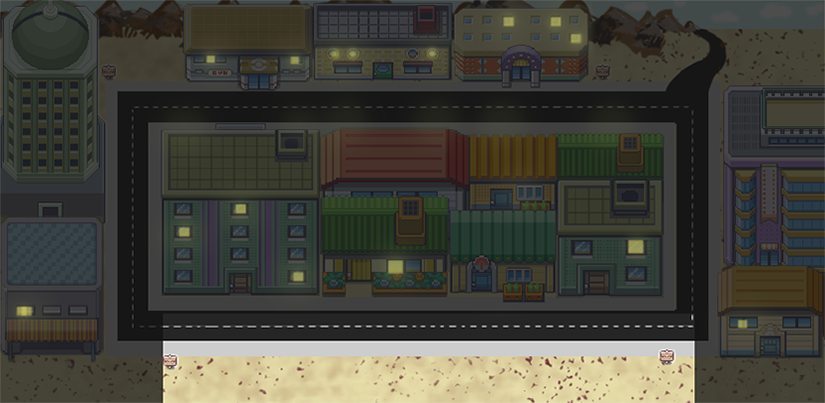
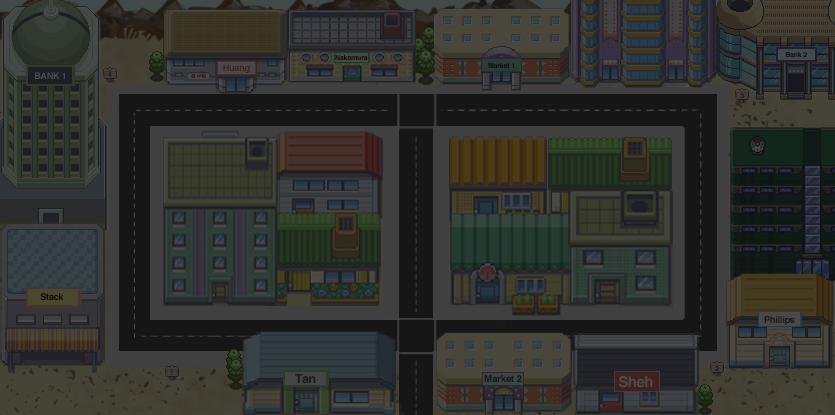
Added all info on agents, updated gui to fix

diff --git a/src/city/gui/PersonGui.java b/src/city/gui/PersonGui.java
@@ -177,6 +177,10 @@ public class PersonGui implements Gui {
 
 	@Override
 	public void draw(Graphics2D g) {
+		info = agent.getName() + "(" + agent.getPersonState() + ")";
+		g.setColor(Color.magenta);
+		g.drawString(info, xPos, yPos);
+		
 		if (xPos < xDestination) {
 			g.drawImage(personRight, xPos, yPos, null);
 		}
@@ -201,10 +205,6 @@ public class PersonGui implements Gui {
 		else {
 			g.drawImage(personDown, xPos, yPos, null);
 		}
-		
-		info = agent.getName() + "(" + agent.getPersonState() + ")";
-		g.drawString(info, xPos, yPos);
-		
 	}
 
 	public void setPresentFalse() {

diff --git a/src/bank/gui/BankTellerGui.java b/src/bank/gui/BankTellerGui.java
@@ -118,8 +118,9 @@ public class BankTellerGui implements Gui {
 			g.drawImage(personDown, xPos, yPos, null);
 		}
 		
-		//info = agent.getPersonAgent().getName() + "(" + agent.getState() + ")";
-		//g.drawString(info, xPos, yPos);
+		info = agent.getPersonAgent().getName() + "(" + agent.getState() + ")";
+		g.setColor(Color.magenta);
+		g.drawString(info, xPos, yPos);
 	}
     
 	@Override

diff --git a/src/home/gui/LandlordGui.java b/src/home/gui/LandlordGui.java
@@ -3,6 +3,7 @@ package home.gui;
 import gui.Gui;
 import home.interfaces.Landlord;
 
+import java.awt.Color;
 import java.awt.Graphics2D;
 
 public class LandlordGui implements Gui {
@@ -21,7 +22,6 @@ public class LandlordGui implements Gui {
 
 	@Override
 	public void draw(Graphics2D g) {
-		// TODO Auto-generated method stub
 
 	}
 

diff --git a/src/bank/gui/BankCustomerGui.java b/src/bank/gui/BankCustomerGui.java
@@ -143,8 +143,8 @@ public class BankCustomerGui implements Gui {
 				g.drawImage(explosion, randX-150,randY-50,null);
 			}
 		}
-		
 		info = agent.getPersonAgent().getName() + "(" + agent.getState() + ")";
+		g.setColor(Color.magenta);
 		g.drawString(info, xPos, yPos);
 	}
 

diff --git a/src/market/gui/MarketCustomerGui.java b/src/market/gui/MarketCustomerGui.java
@@ -97,6 +97,7 @@ public class MarketCustomerGui implements Gui {
 		}
 		
 		info = role.getPersonAgent().getName() + "(" + role.getState() + ")";
+		g.setColor(Color.magenta);
 		g.drawString(info, xPos, yPos);
 	}
 

diff --git a/src/restaurant/huangRestaurant/gui/WaiterGui.java b/src/restaurant/huangRestaurant/gui/WaiterGui.java
@@ -2,6 +2,7 @@ package restaurant.huangRestaurant.gui;
 
 import gui.Gui;
 
+import java.awt.Color;
 import java.awt.Graphics2D;
 import java.awt.image.BufferedImage;
 import java.io.IOException;

diff --git a/src/market/gui/MarketGui.java b/src/market/gui/MarketGui.java
@@ -100,6 +100,7 @@ public class MarketGui implements Gui {
 		}
 		
 		info = role.getPersonAgent().getName();
+		g.setColor(Color.magenta);
 		g.drawString(info, xPos, yPos);
 	}
 
